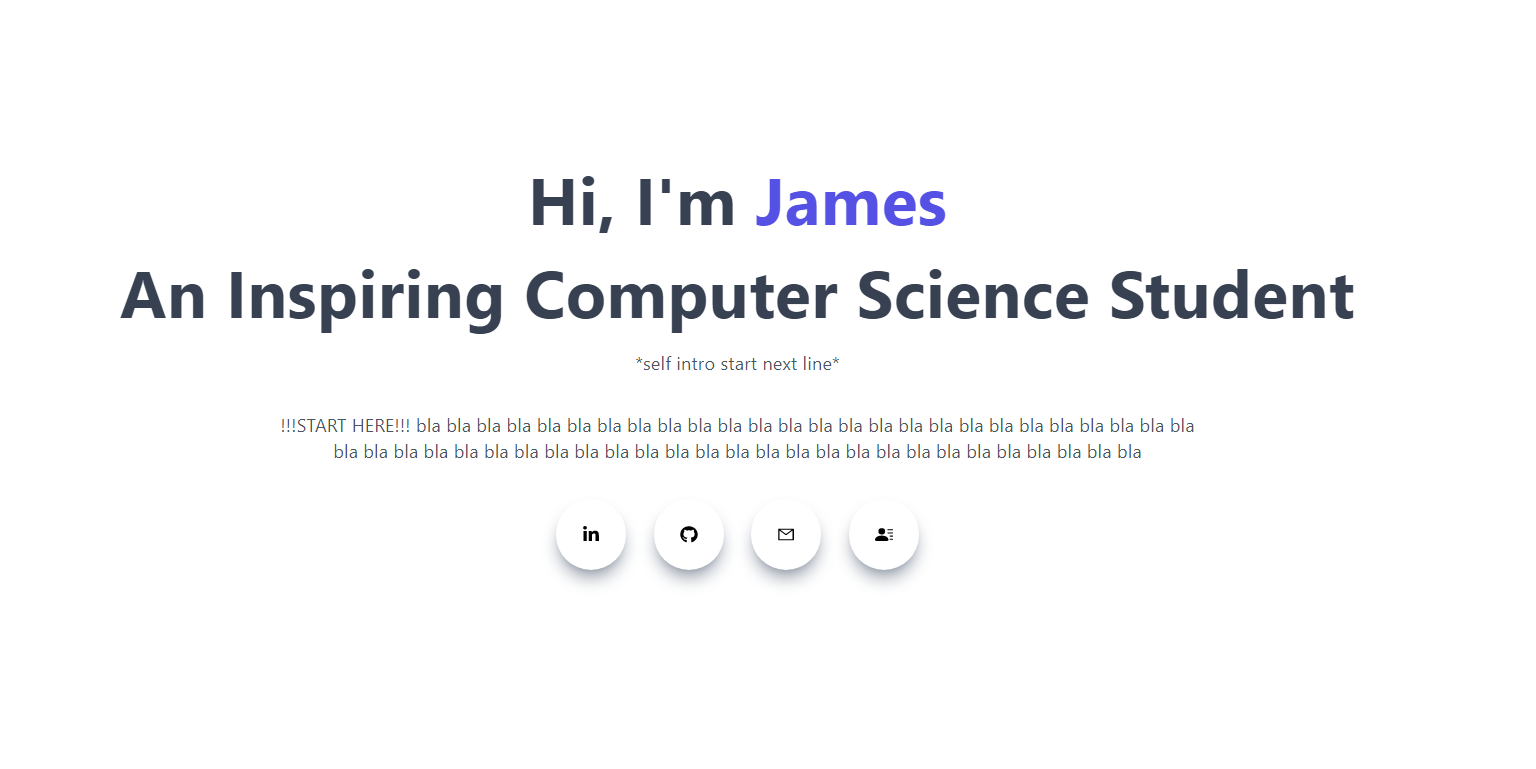
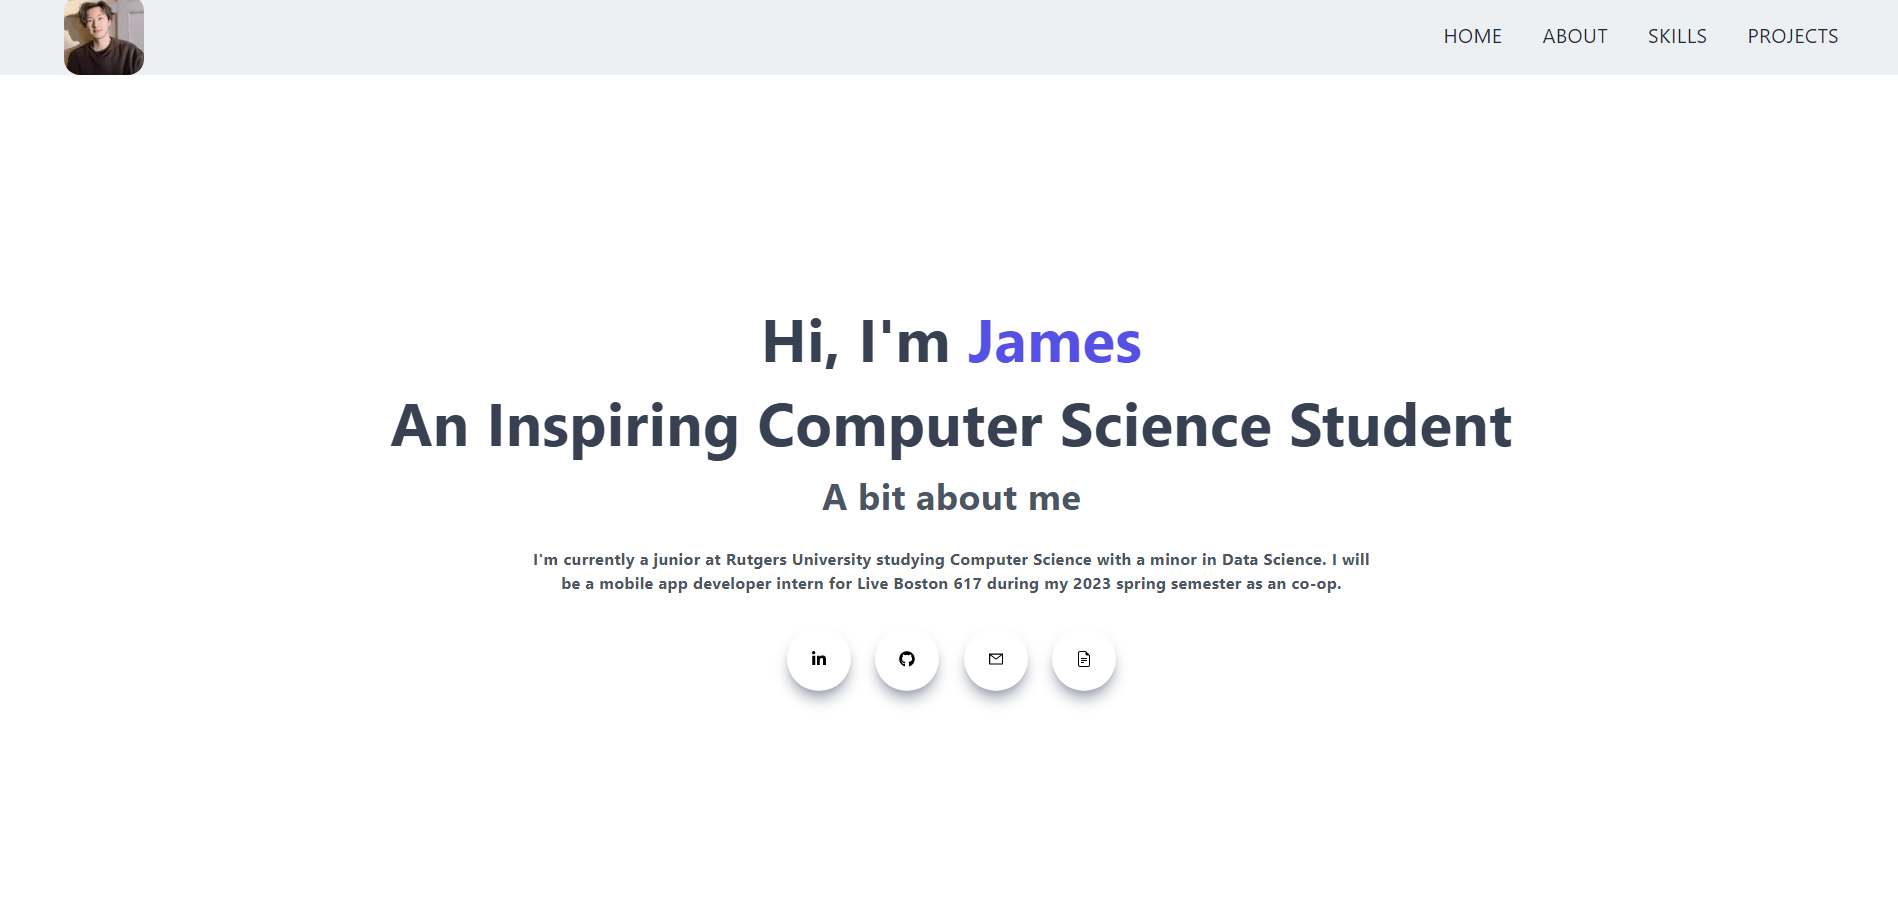
updated text for bio and project overview

diff --git a/components/About.jsx b/components/About.jsx
@@ -9,23 +9,37 @@ const About = () => {
           </p>
           <h2 className="py-4">Who I am</h2>
           <p className="py-2 text-gray-600"></p>
-          <p className="py-2 text-gray-600">
-            My name is Junfeng Wang, but I go by James. I'm a rising senior at
-            Rutgers University, New Brunswick, pursuing a Bachelor of Science
+          <p className="py-2 text-xl text-gray-600">
+            My name is Junfeng, but I go by James. I'm currently a rising senior
+            at Rutgers University, New Brunswick, pursuing a Bachelor of Science
             degree in Computer Science with a minor in Data Science. My passion
-            for technology started when I was just a kid, looking around in my
-            parent's living room and wondering what is that black box on the
-            table, illuminating lights, and different images. I fell in love
-            with the hardware at a young age, putting pieces together in
-            different machines and eventually assembling my first computer.
+            for technology sparked when I was a child. From playing video games
+            to tinkering with computers, I knew from an early age that I wanted
+            to pursue a career involving technology. I was particularly
+            interested in PC building, spending hours of my free time
+            researching various computer components, watching tutorials on
+            YouTube, and learning about the different steps involved in building
+            a computer from scratch. These tutorials helped me to gain a deeper
+            understanding of the various components and how to assemble them
+            correctly. Through this process, not only did I learn about the
+            technical aspects of building a computer, but I’ve also developed a
+            strong sense of determination and problem-solving skills, breaking a
+            complex problem into small pieces, which have proven to be valuable
+            skills in my career in tech.
           </p>
-          <p className="py-2 text-gray-600">
-            As I turned older and started learning my first computer science
-            class, I was immediately hooked on problem-solving. Encountering a
-            problem and breaking it down into small pieces, and tackling them
-            one by one, it's like I'm solving a puzzle. In the end, when all the
-            problems are finished, all the pieces come together, and that is an
-            incredible feeling.
+          <p className="py-2 text-xl text-gray-600">
+            As I grew older, my passion for technology only grew stronger. I
+            kept expanding my knowledge in programming, computer systems, and
+            the latest advancements in the tech industry. I found myself
+            particularly drawn to the problem-solving aspect of computer
+            science. It was like a puzzle to me, breaking down a problem into
+            smaller pieces and tackling them one by one, much like how I would
+            assemble different computer parts. Seeing everything come together
+            in the end and work seamlessly was an incredibly satisfying feeling.
+            I am grateful for the experiences I had growing up that allowed me
+            to develop my curiosity and skills in technology. They have helped
+            shape me into who I am today, and provided a solid foundation to
+            chase my dreams in the tech industry.
           </p>
         </div>
         <div className="w-full h-auto m-auto shadow-xl shadow-gray-600 rounded-xl items-center justify-center p-4 hover:scale-105 ease-in duration-300">

diff --git a/pages/portfolio.jsx b/pages/portfolio.jsx
@@ -26,9 +26,30 @@ const property = () => {
         <div className="col-span-4">
           <p>Project</p>
           <h2>Overview</h2>
-          <p>descrition of project</p>
+          <p className="text-lg">
+            This website was developed utilizing Next.js, a React-based
+            framework, and Tailwind CSS. It comprises six pages highlighting my
+            professional skills and background. The project was constructed
+            using various tools and front-end design principles, including
+            flexbox, grid, hover effects, server-side rendering, lazy-loading
+            images, built-in client-side routing, and a mobile-responsive,
+            scalable UI that adapts to the browser window size.
+          </p>
+          <p className="text-lg py-4">
+            As I progress in my professional career, I regularly update and
+            improve this portfolio, ensuring that it accurately showcases my
+            professional development and growth over time. This includes adding
+            new projects and skills and highlighting relevant experience
+            acquired along the way. By doing so, I aim to provide a
+            comprehensive and up-to-date representation of my capabilities and
+            qualifications to potential employers and clients.
+          </p>
           <button className="px-8 py-2 mt-4 mr-8">
-            <a href="http://localhost:3000/#home" target="_blank" rel="">
+            <a
+              href="https://www.jameswangportfolio.com/"
+              target="_blank"
+              rel=""
+            >
               Project Demo
             </a>
           </button>

diff --git a/components/Main.jsx b/components/Main.jsx
@@ -17,10 +17,14 @@ const Main = () => {
           {/* <p className="py-4 text-gray-600 sm:max-w-[70%] m-auto">
             A bit about me
           </p> */}
-          <h2 className="py-4 text-gray-600 sm:max-w-[70%] m-auto">A bit about me</h2>
-          <p className="py-4 text-gray-600 sm:max-w-[70%] m-auto font-bold">
-          I'm currently a junior at Rutgers University studying Computer Science with a minor in Data Science.
-          I will be a mobile app developer intern for Live Boston 617 during my 2023 spring semester as an co-op.
+          <h2 className="py-4 text-gray-600 sm:max-w-[70%] m-auto">
+            A bit about me
+          </h2>
+          <p className="py-4 text-lg text-gray-600 sm:max-w-[70%] m-auto font-bold">
+            I'm currently a junior at Rutgers University studying Computer
+            Science with a minor in Data Science. I will be a mobile app
+            developer intern for Live Boston 617 during my 2023 spring semester
+            as an co-op.
           </p>
           <div className="flex items-center justify-between max-w-[330px] m-auto py-4">
             <div className="rounded-full shadow-lg shadow-gray-400 p-6 cursor-pointer hover:scale-110 ease-in duration-300">

diff --git a/components/Navbar.jsx b/components/Navbar.jsx
@@ -6,7 +6,6 @@ import { FaGithub, FaLinkedinIn } from "react-icons/fa";
 import { BsFileEarmarkText } from "react-icons/bs";
 import { useRouter } from "next/router";
 import pfp from "../public/assets/pfp.jpg";
-import navPfp from "../public/assets/navpfp.jpg";
 
 const Navbar = () => {
   const [nav, setNav] = useState(false);
@@ -55,7 +54,7 @@ const Navbar = () => {
       <div className="flex justify-between items-center w-full h-full px-2 2xl:px-16">
         <Image
           className="rounded-2xl"
-          src= {pfp}
+          src={pfp}
           alt="/"
           width="80"
           height="30"
@@ -101,7 +100,7 @@ const Navbar = () => {
             <div className="flex w-full item-center justify-between">
               <Image
                 className="rounded-2xl"
-                src= {pfp}
+                src={pfp}
                 alt="/"
                 width="50"
                 height="50"
